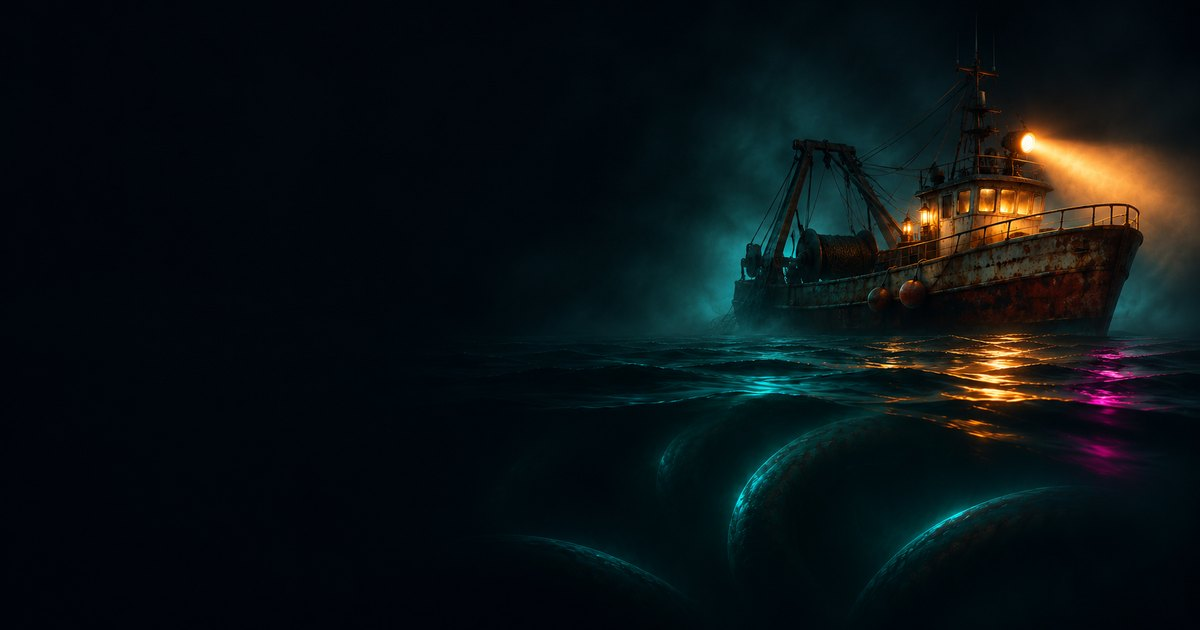
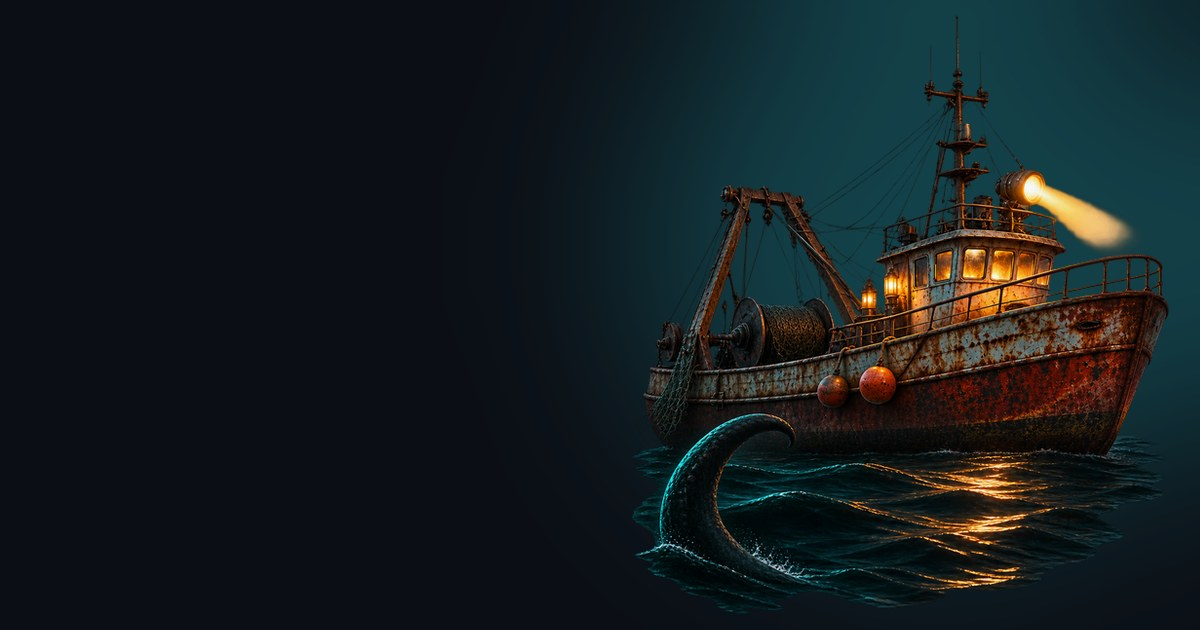
Dreadmoor: nuova keyart scontornata e OG

Changed region(s): [[0.4933, 0.0, 1.0, 0.9651], [0.4625, 0.8444, 0.4933, 0.8746]]

diff --git a/dreadmoor-gioco-pesca-horror.html b/dreadmoor-gioco-pesca-horror.html
@@ -127,7 +127,7 @@
       <h1>Dreadmoor, gioco di pesca horror in accesso anticipato</h1>
       <picture>
         <source srcset="img/keyart-dreadmoor-600x900.webp" type="image/webp" />
-        <img class="hero-keyart" src="img/keyart-dreadmoor-600x900.png" alt="Peschereccio illuminato da un faro caldo nella notte, su un mare nero dove si intravedono tentacoli sotto la superficie" width="600" height="900" />
+        <img class="hero-keyart" src="img/keyart-dreadmoor-600x900.png" alt="Peschereccio da pesca illuminato da un faro caldo, scontornato su sfondo trasparente, con un tentacolo scuro che emerge dall'acqua nera sotto lo scafo." width="600" height="900" />
       </picture>
     </section>
 
